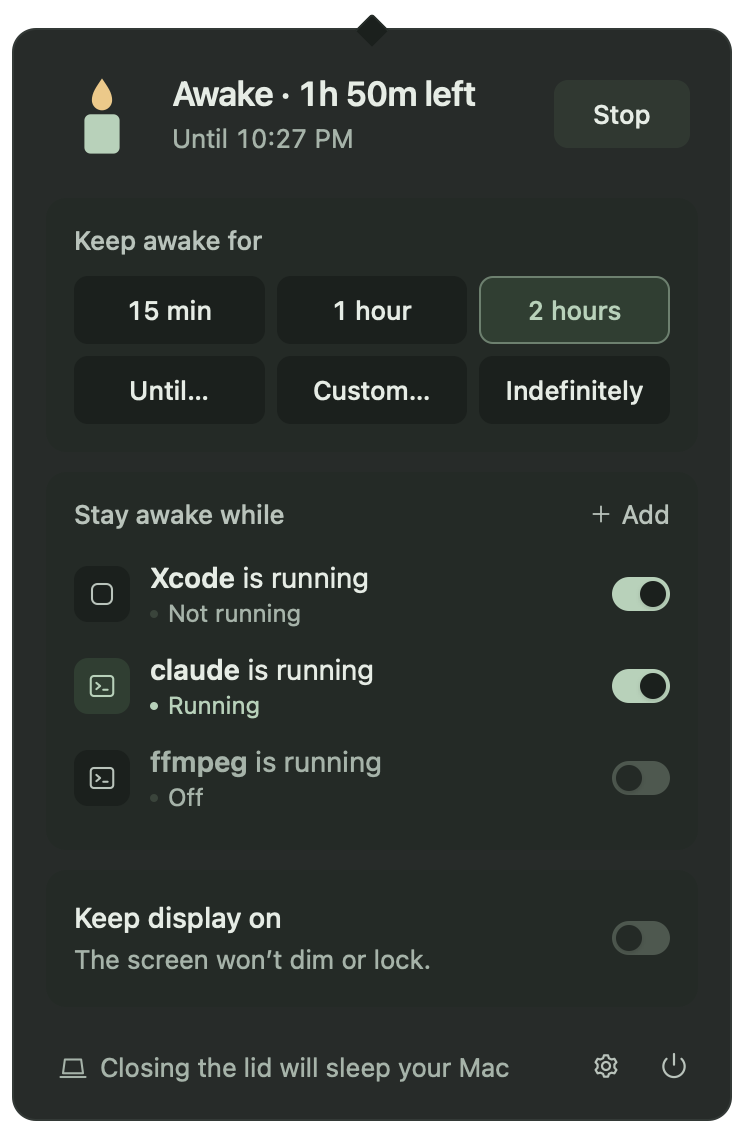
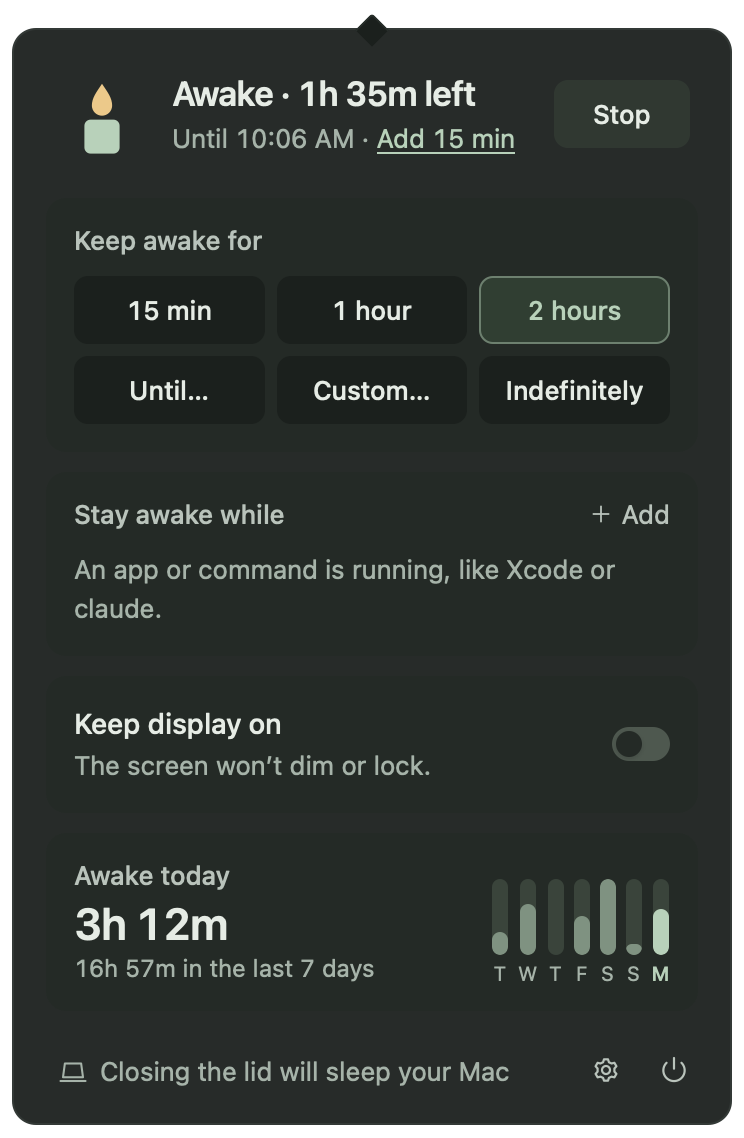
chore(release): prepare v0.4.0
Version 0.4.0, the v0.4.0 changelog and CHANGELOG row, and download
links pointing at v0.4.0. The README and site hero now show the popover
with the Awake today card.

diff --git a/site/index.html b/site/index.html
@@ -161,7 +161,7 @@ footer a:hover { color: var(--ink); }
     <figure class="shot">
       <picture>
         <source srcset="popover-dark.png" media="(prefers-color-scheme: dark)">
-        <img src="popover-light.png" width="372" height="567" alt="Wick popover: awake for 1 hour 50 minutes, with Xcode, claude and ffmpeg as triggers">
+        <img src="popover-light.png" width="372" height="569" alt="Wick popover: awake for 1 hour 35 minutes, 3 hours 12 minutes awake today, with a bar for each of the last 7 days">
       </picture>
     </figure>
   </div>

diff --git a/README.md b/README.md
@@ -13,7 +13,7 @@
 [Download](https://github.com/Abulkosim/wick/releases/latest) · [Install](#install) · [What it does](#what-it-does) · [Privacy](#privacy) · [Changelog](CHANGELOG.md) · [Contributing](CONTRIBUTING.md)
 
 <p>
-  <img src="docs/images/popover-light.png" alt="Wick awake for two hours, with Xcode, claude and ffmpeg as triggers" width="300" />
+  <img src="docs/images/popover-light.png" alt="Wick awake for two hours, with 3h 12m awake today and a bar for each of the last 7 days" width="300" />
   <img src="docs/images/others-dark.png" alt="Wick in dark mode listing caffeinate, Google Chrome and zoom.us as also keeping the Mac awake" width="300" />
 </p>
 
@@ -23,12 +23,12 @@
 
 ## Install
 
-Download **v0.3.0** from [GitHub Releases](https://github.com/Abulkosim/wick/releases/latest).
+Download **v0.4.0** from [GitHub Releases](https://github.com/Abulkosim/wick/releases/latest).
 
 | Platform | Download |
 | --- | --- |
-| macOS 12+ · Apple Silicon and Intel | [Universal DMG](https://github.com/Abulkosim/wick/releases/download/v0.3.0/Wick_0.3.0_universal.dmg) |
-| Windows 10/11 x64 | [Setup EXE](https://github.com/Abulkosim/wick/releases/download/v0.3.0/Wick_0.3.0_x64-setup.exe) · [MSI](https://github.com/Abulkosim/wick/releases/download/v0.3.0/Wick_0.3.0_x64_en-US.msi) |
+| macOS 12+ · Apple Silicon and Intel | [Universal DMG](https://github.com/Abulkosim/wick/releases/download/v0.4.0/Wick_0.4.0_universal.dmg) |
+| Windows 10/11 x64 | [Setup EXE](https://github.com/Abulkosim/wick/releases/download/v0.4.0/Wick_0.4.0_x64-setup.exe) · [MSI](https://github.com/Abulkosim/wick/releases/download/v0.4.0/Wick_0.4.0_x64_en-US.msi) |
 
 **Homebrew** (macOS):
 

diff --git a/CHANGELOG.md b/CHANGELOG.md
@@ -2,6 +2,7 @@
 
 | Version | Date (UTC) | Changes |
 | --- | --- | --- |
+| [v0.4.0](changelogs/v0.4.0.md) | 2026-10-26 | History of time awake per day, Homebrew cask. |
 | [v0.3.0](changelogs/v0.3.0.md) | 2026-10-25 | Tray quick actions, Add 15 min, popover keys, sessions survive updates, lighter background work. |
 | [v0.2.0](changelogs/v0.2.0.md) | 2026-10-23 | Windows, power, display and schedule triggers, pause while locked, links and `wick status`. |
 | [v0.1.0](changelogs/v0.1.0.md) | 2026-10-23 | First release: sessions, app and command triggers, what else is awake, battery guard. |

diff --git a/changelogs/v0.4.0.md b/changelogs/v0.4.0.md
@@ -1,0 +1,8 @@
+# v0.4.0
+
+2026-10-26 · [Download](https://github.com/Abulkosim/wick/releases/tag/v0.4.0)
+
+- The popover shows how long Wick kept your Mac awake today, with a bar for each of the last 7 days. Time while the Mac sleeps or the screen is locked and paused doesn't count.
+- Turn history off or clear it in Settings → History. It stays on this computer for 30 days.
+- `wick status` adds `awakeTodayMinutes`.
+- Install with Homebrew: `brew install --cask abulkosim/tap/wick`. The cask also links the `wick` command.
